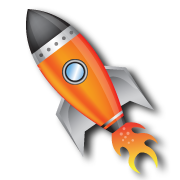
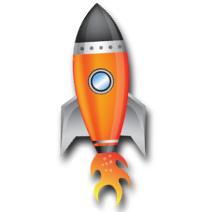
don't rotate image

diff --git a/player.rb b/player.rb
@@ -1,5 +1,4 @@
 class Player
-  IMAGE_ROT = 38
   MAX_SPEED = 20
   MAX_FUEL = 100
   
@@ -73,9 +72,9 @@ class Player
   
   def draw
     if @shield then
-      @image.draw_rot(@x, @y, ZOrder::Player, IMAGE_ROT, 0.5, 0.5, 1, 1, 0xFF0000FF)
+      @image.draw_rot(@x, @y, ZOrder::Player, 0, 0.5, 0.5, 1, 1, 0xFF0000FF)
     else
-      @image.draw_rot(@x, @y, ZOrder::Player, IMAGE_ROT)
+      @image.draw_rot(@x, @y, ZOrder::Player, 0)
     end
   end
 

diff --git a/honeybun.rb b/honeybun.rb
@@ -75,7 +75,7 @@ class EnergyHoneybun < Honeybun
   def affect_player(player)
     player.speed = player.speed + 2
 
-    #player.shield(5)
+    player.shield(5)
   end
 
 end
